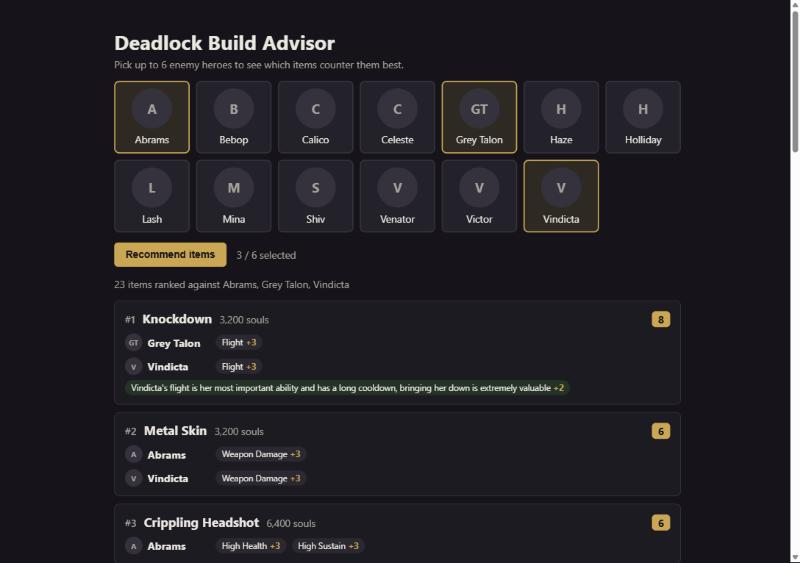
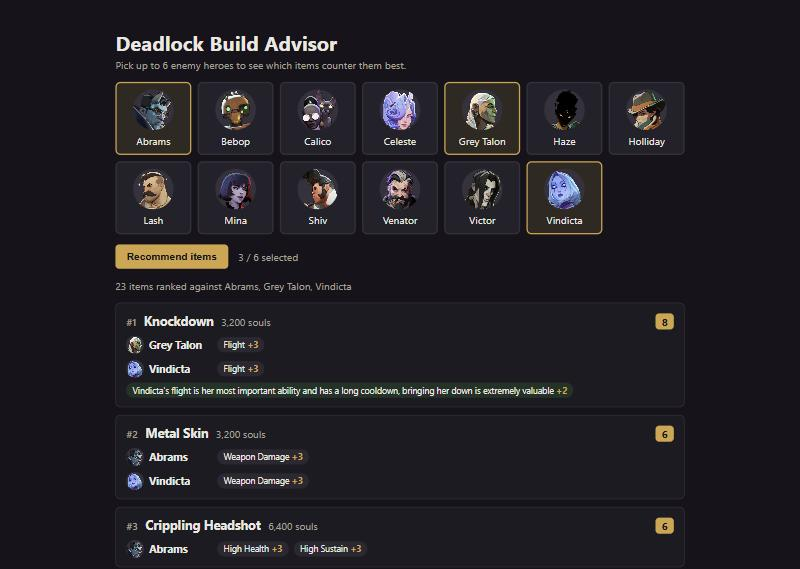
Added hero portraits

diff --git a/src/main/resources/static/index.html b/src/main/resources/static/index.html
@@ -44,6 +44,9 @@
 			height: 64px;
 			border-radius: 50%;
 			object-fit: cover;
+			/* The portraits are taller than wide with the face near the top,
+			   so crop from the top instead of the middle */
+			object-position: center 15%;
 			background: #36323e;
 			display: flex;
 			align-items: center;
@@ -145,9 +148,9 @@
 		const message = document.getElementById('message');
 		const results = document.getElementById('results');
 
-		// "Grey Talon" -> "/images/heroes/grey-talon.png"
+		// "Grey Talon" -> "/images/heroes/grey-talon.webp"
 		function portraitUrl(name) {
-			return '/images/heroes/' + name.toLowerCase().replaceAll(' ', '-') + '.png';
+			return '/images/heroes/' + name.toLowerCase().replaceAll(' ', '-') + '.webp';
 		}
 
 		// Hero portrait, or the hero's initials if the image file is missing
